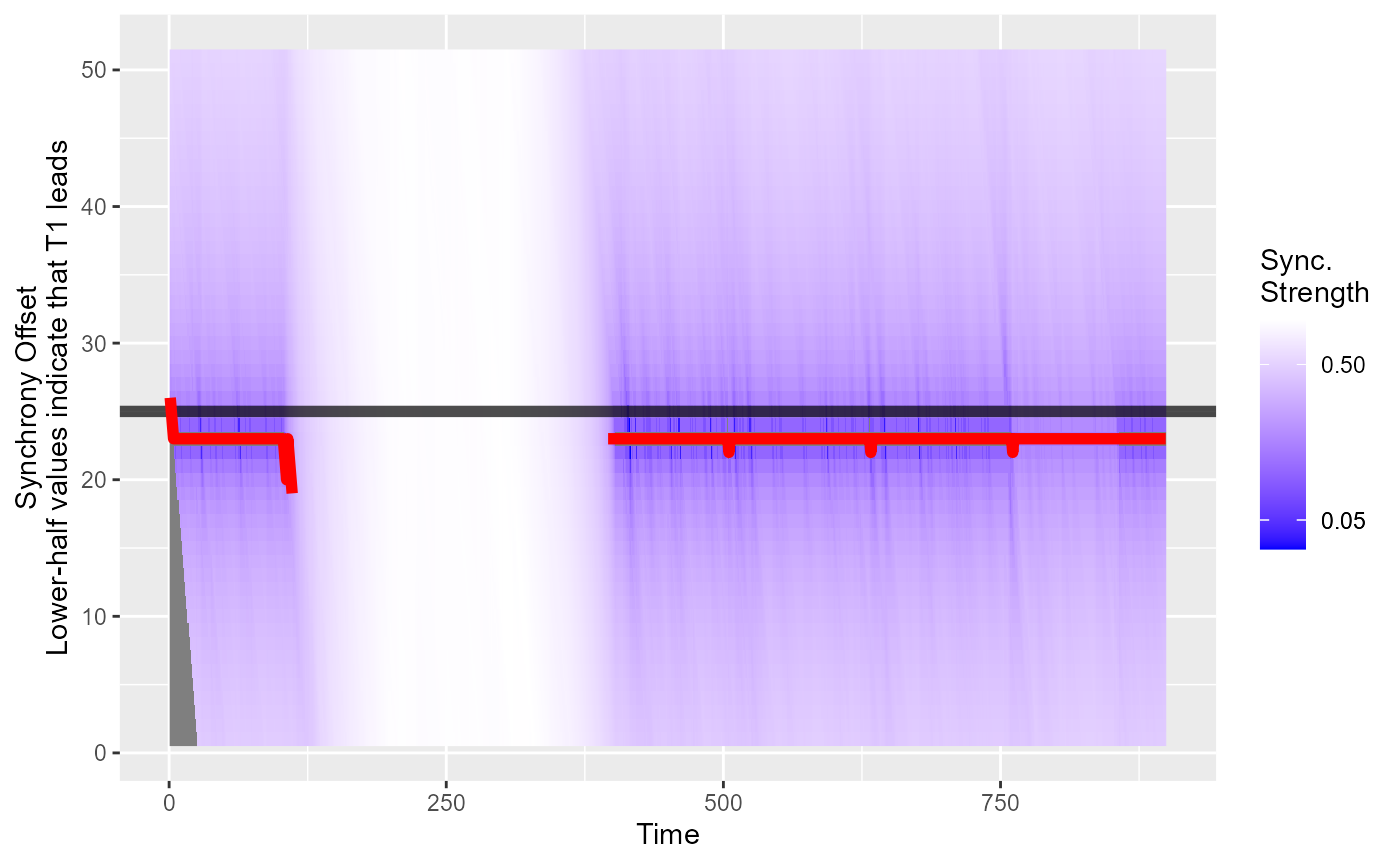
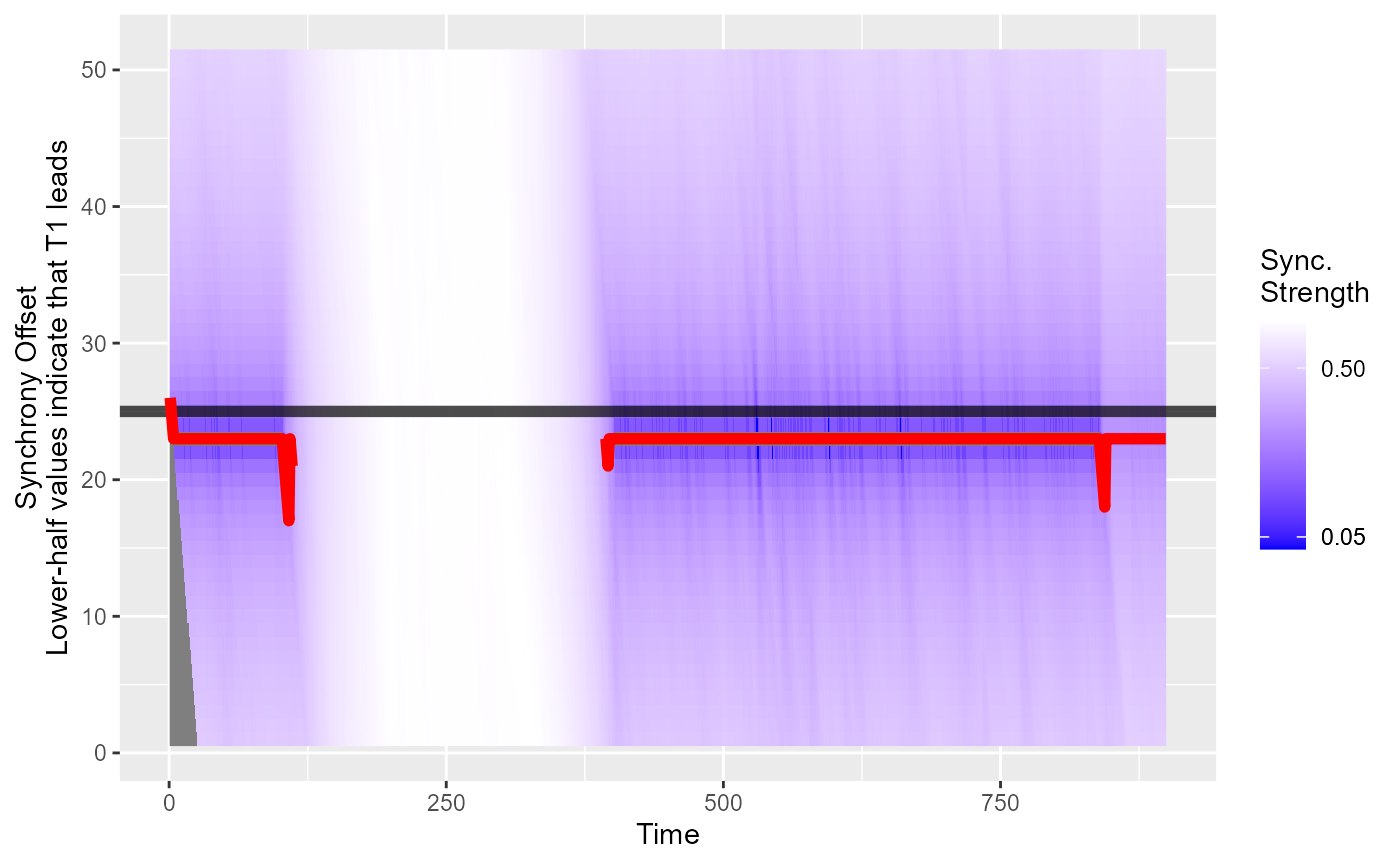
updated pkgdown site

diff --git a/docs/reference/samplingBasedThreshold.html b/docs/reference/samplingBasedThreshold.html
@@ -1,0 +1,117 @@
+<!DOCTYPE html>
+<!-- Generated by pkgdown: do not edit by hand --><html lang="en"><head><meta http-equiv="Content-Type" content="text/html; charset=UTF-8"><meta charset="utf-8"><meta http-equiv="X-UA-Compatible" content="IE=edge"><meta name="viewport" content="width=device-width, initial-scale=1.0"><title>Heuristically determine a threshold for synchronisation — samplingBasedThreshold • pdcsync</title><!-- jquery --><script src="https://cdnjs.cloudflare.com/ajax/libs/jquery/3.4.1/jquery.min.js" integrity="sha256-CSXorXvZcTkaix6Yvo6HppcZGetbYMGWSFlBw8HfCJo=" crossorigin="anonymous"></script><!-- Bootstrap --><link rel="stylesheet" href="https://cdnjs.cloudflare.com/ajax/libs/twitter-bootstrap/3.4.1/css/bootstrap.min.css" integrity="sha256-bZLfwXAP04zRMK2BjiO8iu9pf4FbLqX6zitd+tIvLhE=" crossorigin="anonymous"><script src="https://cdnjs.cloudflare.com/ajax/libs/twitter-bootstrap/3.4.1/js/bootstrap.min.js" integrity="sha256-nuL8/2cJ5NDSSwnKD8VqreErSWHtnEP9E7AySL+1ev4=" crossorigin="anonymous"></script><!-- bootstrap-toc --><link rel="stylesheet" href="../bootstrap-toc.css"><script src="../bootstrap-toc.js"></script><!-- Font Awesome icons --><link rel="stylesheet" href="https://cdnjs.cloudflare.com/ajax/libs/font-awesome/5.12.1/css/all.min.css" integrity="sha256-mmgLkCYLUQbXn0B1SRqzHar6dCnv9oZFPEC1g1cwlkk=" crossorigin="anonymous"><link rel="stylesheet" href="https://cdnjs.cloudflare.com/ajax/libs/font-awesome/5.12.1/css/v4-shims.min.css" integrity="sha256-wZjR52fzng1pJHwx4aV2AO3yyTOXrcDW7jBpJtTwVxw=" crossorigin="anonymous"><!-- clipboard.js --><script src="https://cdnjs.cloudflare.com/ajax/libs/clipboard.js/2.0.6/clipboard.min.js" integrity="sha256-inc5kl9MA1hkeYUt+EC3BhlIgyp/2jDIyBLS6k3UxPI=" crossorigin="anonymous"></script><!-- headroom.js --><script src="https://cdnjs.cloudflare.com/ajax/libs/headroom/0.11.0/headroom.min.js" integrity="sha256-AsUX4SJE1+yuDu5+mAVzJbuYNPHj/WroHuZ8Ir/CkE0=" crossorigin="anonymous"></script><script src="https://cdnjs.cloudflare.com/ajax/libs/headroom/0.11.0/jQuery.headroom.min.js" integrity="sha256-ZX/yNShbjqsohH1k95liqY9Gd8uOiE1S4vZc+9KQ1K4=" crossorigin="anonymous"></script><!-- pkgdown --><link href="../pkgdown.css" rel="stylesheet"><script src="../pkgdown.js"></script><meta property="og:title" content="Heuristically determine a threshold for synchronisation — samplingBasedThreshold"><meta property="og:description" content="Heuristically determine a threshold for synchronisation"><!-- mathjax --><script src="https://cdnjs.cloudflare.com/ajax/libs/mathjax/2.7.5/MathJax.js" integrity="sha256-nvJJv9wWKEm88qvoQl9ekL2J+k/RWIsaSScxxlsrv8k=" crossorigin="anonymous"></script><script src="https://cdnjs.cloudflare.com/ajax/libs/mathjax/2.7.5/config/TeX-AMS-MML_HTMLorMML.js" integrity="sha256-84DKXVJXs0/F8OTMzX4UR909+jtl4G7SPypPavF+GfA=" crossorigin="anonymous"></script><!--[if lt IE 9]>
+<script src="https://oss.maxcdn.com/html5shiv/3.7.3/html5shiv.min.js"></script>
+<script src="https://oss.maxcdn.com/respond/1.4.2/respond.min.js"></script>
+<![endif]--></head><body data-spy="scroll" data-target="#toc">
+    
+
+    <div class="container template-reference-topic">
+      <header><div class="navbar navbar-default navbar-fixed-top" role="navigation">
+  <div class="container">
+    <div class="navbar-header">
+      <button type="button" class="navbar-toggle collapsed" data-toggle="collapse" data-target="#navbar" aria-expanded="false">
+        <span class="sr-only">Toggle navigation</span>
+        <span class="icon-bar"></span>
+        <span class="icon-bar"></span>
+        <span class="icon-bar"></span>
+      </button>
+      <span class="navbar-brand">
+        <a class="navbar-link" href="../index.html">pdcsync</a>
+        <span class="version label label-default" data-toggle="tooltip" data-placement="bottom" title="">0.1</span>
+      </span>
+    </div>
+
+    <div id="navbar" class="navbar-collapse collapse">
+      <ul class="nav navbar-nav"><li>
+  <a href="../reference/index.html">Reference</a>
+</li>
+<li class="dropdown">
+  <a href="#" class="dropdown-toggle" data-toggle="dropdown" role="button" data-bs-toggle="dropdown" aria-expanded="false">
+    Articles
+     
+    <span class="caret"></span>
+  </a>
+  <ul class="dropdown-menu" role="menu"><li>
+      <a href="../articles/getting_started.html">Getting started</a>
+    </li>
+    <li>
+      <a href="../articles/plotting.html">Plotting</a>
+    </li>
+  </ul></li>
+      </ul><ul class="nav navbar-nav navbar-right"></ul></div><!--/.nav-collapse -->
+  </div><!--/.container -->
+</div><!--/.navbar -->
+
+      
+
+      </header><div class="row">
+  <div class="col-md-9 contents">
+    <div class="page-header">
+    <h1>Heuristically determine a threshold for synchronisation</h1>
+    
+    <div class="hidden name"><code>samplingBasedThreshold.Rd</code></div>
+    </div>
+
+    <div class="ref-description">
+    <p>Heuristically determine a threshold for synchronisation</p>
+    </div>
+
+    <div id="ref-usage">
+    <div class="sourceCode"><pre class="sourceCode r"><code><span><span class="fu">samplingBasedThreshold</span><span class="op">(</span></span>
+<span>  <span class="va">t1</span>,</span>
+<span>  <span class="va">t2</span>,</span>
+<span>  <span class="va">window_size</span>,</span>
+<span>  <span class="va">m</span>,</span>
+<span>  <span class="va">t</span>,</span>
+<span>  num_samples <span class="op">=</span> <span class="fl">5000</span>,</span>
+<span>  alpha <span class="op">=</span> <span class="fl">0.01</span></span>
+<span><span class="op">)</span></span></code></pre></div>
+    </div>
+
+    <div id="arguments">
+    <h2>Arguments</h2>
+    <dl><dt>window_size</dt>
+<dd><p>integer; size of the window</p></dd>
+
+
+<dt>m</dt>
+<dd><p>embedding dimension</p></dd>
+
+
+<dt>t</dt>
+<dd><p>time-delayed embedding</p></dd>
+
+
+<dt>num_samples</dt>
+<dd><p>integer; number of samples to determine empirical distribution</p></dd>
+
+
+<dt>alpha</dt>
+<dd><p>numeric; alpha level to determine threshold based on empirical null distribution</p></dd>
+
+</dl></div>
+
+  </div>
+  <div class="col-md-3 hidden-xs hidden-sm" id="pkgdown-sidebar">
+    <nav id="toc" data-toggle="toc" class="sticky-top"><h2 data-toc-skip>Contents</h2>
+    </nav></div>
+</div>
+
+
+      <footer><div class="copyright">
+  <p></p><p>Developed by Andreas M. Brandmaier.</p>
+</div>
+
+<div class="pkgdown">
+  <p></p><p>Site built with <a href="https://pkgdown.r-lib.org/" class="external-link">pkgdown</a> 2.0.7.</p>
+</div>
+
+      </footer></div>
+
+  
+
+
+  
+
+  </body></html>
+

diff --git a/docs/reference/averageAggregatedSynchrony.html b/docs/reference/averageAggregatedSynchrony.html
@@ -1,0 +1,98 @@
+<!DOCTYPE html>
+<!-- Generated by pkgdown: do not edit by hand --><html lang="en"><head><meta http-equiv="Content-Type" content="text/html; charset=UTF-8"><meta charset="utf-8"><meta http-equiv="X-UA-Compatible" content="IE=edge"><meta name="viewport" content="width=device-width, initial-scale=1.0"><title>A function to compute an aggregate (parameter 'fun2') of a function (parameter 'fun1') of
+the synchrony values per time points. — averageAggregatedSynchrony • pdcsync</title><!-- jquery --><script src="https://cdnjs.cloudflare.com/ajax/libs/jquery/3.4.1/jquery.min.js" integrity="sha256-CSXorXvZcTkaix6Yvo6HppcZGetbYMGWSFlBw8HfCJo=" crossorigin="anonymous"></script><!-- Bootstrap --><link rel="stylesheet" href="https://cdnjs.cloudflare.com/ajax/libs/twitter-bootstrap/3.4.1/css/bootstrap.min.css" integrity="sha256-bZLfwXAP04zRMK2BjiO8iu9pf4FbLqX6zitd+tIvLhE=" crossorigin="anonymous"><script src="https://cdnjs.cloudflare.com/ajax/libs/twitter-bootstrap/3.4.1/js/bootstrap.min.js" integrity="sha256-nuL8/2cJ5NDSSwnKD8VqreErSWHtnEP9E7AySL+1ev4=" crossorigin="anonymous"></script><!-- bootstrap-toc --><link rel="stylesheet" href="../bootstrap-toc.css"><script src="../bootstrap-toc.js"></script><!-- Font Awesome icons --><link rel="stylesheet" href="https://cdnjs.cloudflare.com/ajax/libs/font-awesome/5.12.1/css/all.min.css" integrity="sha256-mmgLkCYLUQbXn0B1SRqzHar6dCnv9oZFPEC1g1cwlkk=" crossorigin="anonymous"><link rel="stylesheet" href="https://cdnjs.cloudflare.com/ajax/libs/font-awesome/5.12.1/css/v4-shims.min.css" integrity="sha256-wZjR52fzng1pJHwx4aV2AO3yyTOXrcDW7jBpJtTwVxw=" crossorigin="anonymous"><!-- clipboard.js --><script src="https://cdnjs.cloudflare.com/ajax/libs/clipboard.js/2.0.6/clipboard.min.js" integrity="sha256-inc5kl9MA1hkeYUt+EC3BhlIgyp/2jDIyBLS6k3UxPI=" crossorigin="anonymous"></script><!-- headroom.js --><script src="https://cdnjs.cloudflare.com/ajax/libs/headroom/0.11.0/headroom.min.js" integrity="sha256-AsUX4SJE1+yuDu5+mAVzJbuYNPHj/WroHuZ8Ir/CkE0=" crossorigin="anonymous"></script><script src="https://cdnjs.cloudflare.com/ajax/libs/headroom/0.11.0/jQuery.headroom.min.js" integrity="sha256-ZX/yNShbjqsohH1k95liqY9Gd8uOiE1S4vZc+9KQ1K4=" crossorigin="anonymous"></script><!-- pkgdown --><link href="../pkgdown.css" rel="stylesheet"><script src="../pkgdown.js"></script><meta property="og:title" content="A function to compute an aggregate (parameter 'fun2') of a function (parameter 'fun1') of
+the synchrony values per time points. — averageAggregatedSynchrony"><meta property="og:description" content="A function to compute an aggregate (parameter 'fun2') of a function (parameter 'fun1') of
+the synchrony values per time points."><!-- mathjax --><script src="https://cdnjs.cloudflare.com/ajax/libs/mathjax/2.7.5/MathJax.js" integrity="sha256-nvJJv9wWKEm88qvoQl9ekL2J+k/RWIsaSScxxlsrv8k=" crossorigin="anonymous"></script><script src="https://cdnjs.cloudflare.com/ajax/libs/mathjax/2.7.5/config/TeX-AMS-MML_HTMLorMML.js" integrity="sha256-84DKXVJXs0/F8OTMzX4UR909+jtl4G7SPypPavF+GfA=" crossorigin="anonymous"></script><!--[if lt IE 9]>
+<script src="https://oss.maxcdn.com/html5shiv/3.7.3/html5shiv.min.js"></script>
+<script src="https://oss.maxcdn.com/respond/1.4.2/respond.min.js"></script>
+<![endif]--></head><body data-spy="scroll" data-target="#toc">
+    
+
+    <div class="container template-reference-topic">
+      <header><div class="navbar navbar-default navbar-fixed-top" role="navigation">
+  <div class="container">
+    <div class="navbar-header">
+      <button type="button" class="navbar-toggle collapsed" data-toggle="collapse" data-target="#navbar" aria-expanded="false">
+        <span class="sr-only">Toggle navigation</span>
+        <span class="icon-bar"></span>
+        <span class="icon-bar"></span>
+        <span class="icon-bar"></span>
+      </button>
+      <span class="navbar-brand">
+        <a class="navbar-link" href="../index.html">pdcsync</a>
+        <span class="version label label-default" data-toggle="tooltip" data-placement="bottom" title="">0.1</span>
+      </span>
+    </div>
+
+    <div id="navbar" class="navbar-collapse collapse">
+      <ul class="nav navbar-nav"><li>
+  <a href="../reference/index.html">Reference</a>
+</li>
+<li class="dropdown">
+  <a href="#" class="dropdown-toggle" data-toggle="dropdown" role="button" data-bs-toggle="dropdown" aria-expanded="false">
+    Articles
+     
+    <span class="caret"></span>
+  </a>
+  <ul class="dropdown-menu" role="menu"><li>
+      <a href="../articles/getting_started.html">Getting started</a>
+    </li>
+    <li>
+      <a href="../articles/plotting.html">Plotting</a>
+    </li>
+  </ul></li>
+      </ul><ul class="nav navbar-nav navbar-right"></ul></div><!--/.nav-collapse -->
+  </div><!--/.container -->
+</div><!--/.navbar -->
+
+      
+
+      </header><div class="row">
+  <div class="col-md-9 contents">
+    <div class="page-header">
+    <h1>A function to compute an aggregate (parameter 'fun2') of a function (parameter 'fun1') of
+the synchrony values per time points.</h1>
+    
+    <div class="hidden name"><code>averageAggregatedSynchrony.Rd</code></div>
+    </div>
+
+    <div class="ref-description">
+    <p>A function to compute an aggregate (parameter 'fun2') of a function (parameter 'fun1') of
+the synchrony values per time points.</p>
+    </div>
+
+    <div id="ref-usage">
+    <div class="sourceCode"><pre class="sourceCode r"><code><span><span class="fu">averageAggregatedSynchrony</span><span class="op">(</span><span class="va">x</span>, fun1 <span class="op">=</span> <span class="va">min</span>, fun2 <span class="op">=</span> <span class="va">mean</span><span class="op">)</span></span></code></pre></div>
+    </div>
+
+    <div id="value">
+    <h2>Value</h2>
+    
+
+<p>a number between 0 and 1 with higher values</p>
+    </div>
+
+  </div>
+  <div class="col-md-3 hidden-xs hidden-sm" id="pkgdown-sidebar">
+    <nav id="toc" data-toggle="toc" class="sticky-top"><h2 data-toc-skip>Contents</h2>
+    </nav></div>
+</div>
+
+
+      <footer><div class="copyright">
+  <p></p><p>Developed by Andreas M. Brandmaier.</p>
+</div>
+
+<div class="pkgdown">
+  <p></p><p>Site built with <a href="https://pkgdown.r-lib.org/" class="external-link">pkgdown</a> 2.0.7.</p>
+</div>
+
+      </footer></div>
+
+  
+
+
+  
+
+  </body></html>
+

diff --git a/docs/articles/getting_started.html b/docs/articles/getting_started.html
@@ -75,7 +75,7 @@
                         <h4 data-toc-skip class="author">Andreas M.
 Brandmaier</h4>
             
-            <h4 data-toc-skip class="date">2023-02-27</h4>
+            <h4 data-toc-skip class="date">2023-05-10</h4>
       
       
       <div class="hidden name"><code>getting_started.Rmd</code></div>
@@ -112,13 +112,40 @@ complete break of symmetry between time points 200 and 400.</p>
 <code class="sourceCode R"><span><span class="fu"><a href="https://rdrr.io/r/graphics/plot.default.html" class="external-link">plot</a></span><span class="op">(</span><span class="va">sync</span><span class="op">)</span></span></code></pre></div>
 <pre><code><span><span class="co">## Warning: Transformation introduced infinite values in discrete y-axis</span></span></code></pre>
 <p><img src="getting_started_files/figure-html/plot-1.png" width="700"></p>
-<p>Plot the synchronization profile using the extended plot</p>
+<p>Plot the synchronization profile using the extended plot method:</p>
 <div class="sourceCode" id="cb6"><pre class="downlit sourceCode r">
 <code class="sourceCode R"><span><span class="fu">syncplot</span><span class="op">(</span><span class="va">sync</span><span class="op">)</span></span></code></pre></div>
 <pre><code><span><span class="co">## Don't know how to automatically pick scale for object of type <span style="color: #0000BB;">&lt;ts&gt;</span>. Defaulting</span></span>
 <span><span class="co">## to continuous.</span></span></code></pre>
 <pre><code><span><span class="co">## Warning: Transformation introduced infinite values in discrete y-axis</span></span></code></pre>
 <p><img src="getting_started_files/figure-html/plot2-1.png" width="700"></p>
+<p>Compute an (experimental) global synchronisation measure (between 0
+and 1, with higher values indicating stronger synchrony).</p>
+<div class="sourceCode" id="cb9"><pre class="downlit sourceCode r">
+<code class="sourceCode R"><span><span class="fu"><a href="../reference/averageAggregatedSynchrony.html">averageAggregatedSynchrony</a></span><span class="op">(</span><span class="va">sync</span><span class="op">)</span></span></code></pre></div>
+<pre><code><span><span class="co">## [1] 0.7419336</span></span></code></pre>
+<p>Now, we further reduce the synchronisation and re-run the algorithm
+again.</p>
+<div class="sourceCode" id="cb11"><pre class="downlit sourceCode r">
+<code class="sourceCode R"><span><span class="co"># no synchrony between 200 and 400</span></span>
+<span><span class="va">t2</span><span class="op">[</span><span class="fl">200</span><span class="op">:</span><span class="fl">600</span><span class="op">]</span> <span class="op">&lt;-</span> <span class="fu"><a href="https://rdrr.io/r/stats/Uniform.html" class="external-link">runif</a></span><span class="op">(</span><span class="fl">201</span>, <span class="fl">0</span>, <span class="fl">1</span><span class="op">)</span></span></code></pre></div>
+<pre><code><span><span class="co">## Warning in t2[200:600] &lt;- runif(201, 0, 1): number of items to replace is not a</span></span>
+<span><span class="co">## multiple of replacement length</span></span></code></pre>
+<div class="sourceCode" id="cb13"><pre class="downlit sourceCode r">
+<code class="sourceCode R"><span><span class="va">sync</span> <span class="op">&lt;-</span> <span class="fu"><a href="../reference/pdcsync.html">pdcsync</a></span><span class="op">(</span><span class="va">t1</span>, <span class="va">t2</span><span class="op">)</span></span></code></pre></div>
+<p>Plot the synchronization profile using the extended plot method:</p>
+<div class="sourceCode" id="cb14"><pre class="downlit sourceCode r">
+<code class="sourceCode R"><span><span class="fu">syncplot</span><span class="op">(</span><span class="va">sync</span><span class="op">)</span></span></code></pre></div>
+<pre><code><span><span class="co">## Don't know how to automatically pick scale for object of type <span style="color: #0000BB;">&lt;ts&gt;</span>. Defaulting</span></span>
+<span><span class="co">## to continuous.</span></span></code></pre>
+<pre><code><span><span class="co">## Warning: Transformation introduced infinite values in discrete y-axis</span></span></code></pre>
+<p><img src="getting_started_files/figure-html/plot2b-1.png" width="700"></p>
+<p>Compute an (experimental) global synchronisation measure (between 0
+and 1, with higher values indicating stronger synchrony). This value is
+lower than before because global synchronisation decreased.</p>
+<div class="sourceCode" id="cb17"><pre class="downlit sourceCode r">
+<code class="sourceCode R"><span><span class="fu"><a href="../reference/averageAggregatedSynchrony.html">averageAggregatedSynchrony</a></span><span class="op">(</span><span class="va">sync</span><span class="op">)</span></span></code></pre></div>
+<pre><code><span><span class="co">## [1] 0.5348691</span></span></code></pre>
 </div>
   </div>
 

diff --git a/docs/reference/index.html b/docs/reference/index.html
@@ -55,9 +55,18 @@
           <p class="section-desc"></p>
         </th>
       </tr></tbody><tbody><tr><td>
+          <p><code><a href="averageAggregatedSynchrony.html">averageAggregatedSynchrony()</a></code> </p>
+        </td>
+        <td><p>A function to compute an aggregate (parameter 'fun2') of a function (parameter 'fun1') of
+the synchrony values per time points.</p></td>
+      </tr><tr><td>
           <p><code><a href="pdcsync.html">pdcsync()</a></code> </p>
         </td>
         <td><p>pdc_synchrony</p></td>
+      </tr><tr><td>
+          <p><code><a href="samplingBasedThreshold.html">samplingBasedThreshold()</a></code> </p>
+        </td>
+        <td><p>Heuristically determine a threshold for synchronisation</p></td>
       </tr></tbody></table></div>
 
   <div class="col-md-3 hidden-xs hidden-sm" id="pkgdown-sidebar">

diff --git a/docs/articles/plotting.html b/docs/articles/plotting.html
@@ -75,7 +75,7 @@
                         <h4 data-toc-skip class="author">Andreas M.
 Brandmaier</h4>
             
-            <h4 data-toc-skip class="date">2023-02-27</h4>
+            <h4 data-toc-skip class="date">2023-05-10</h4>
       
       
       <div class="hidden name"><code>plotting.Rmd</code></div>
